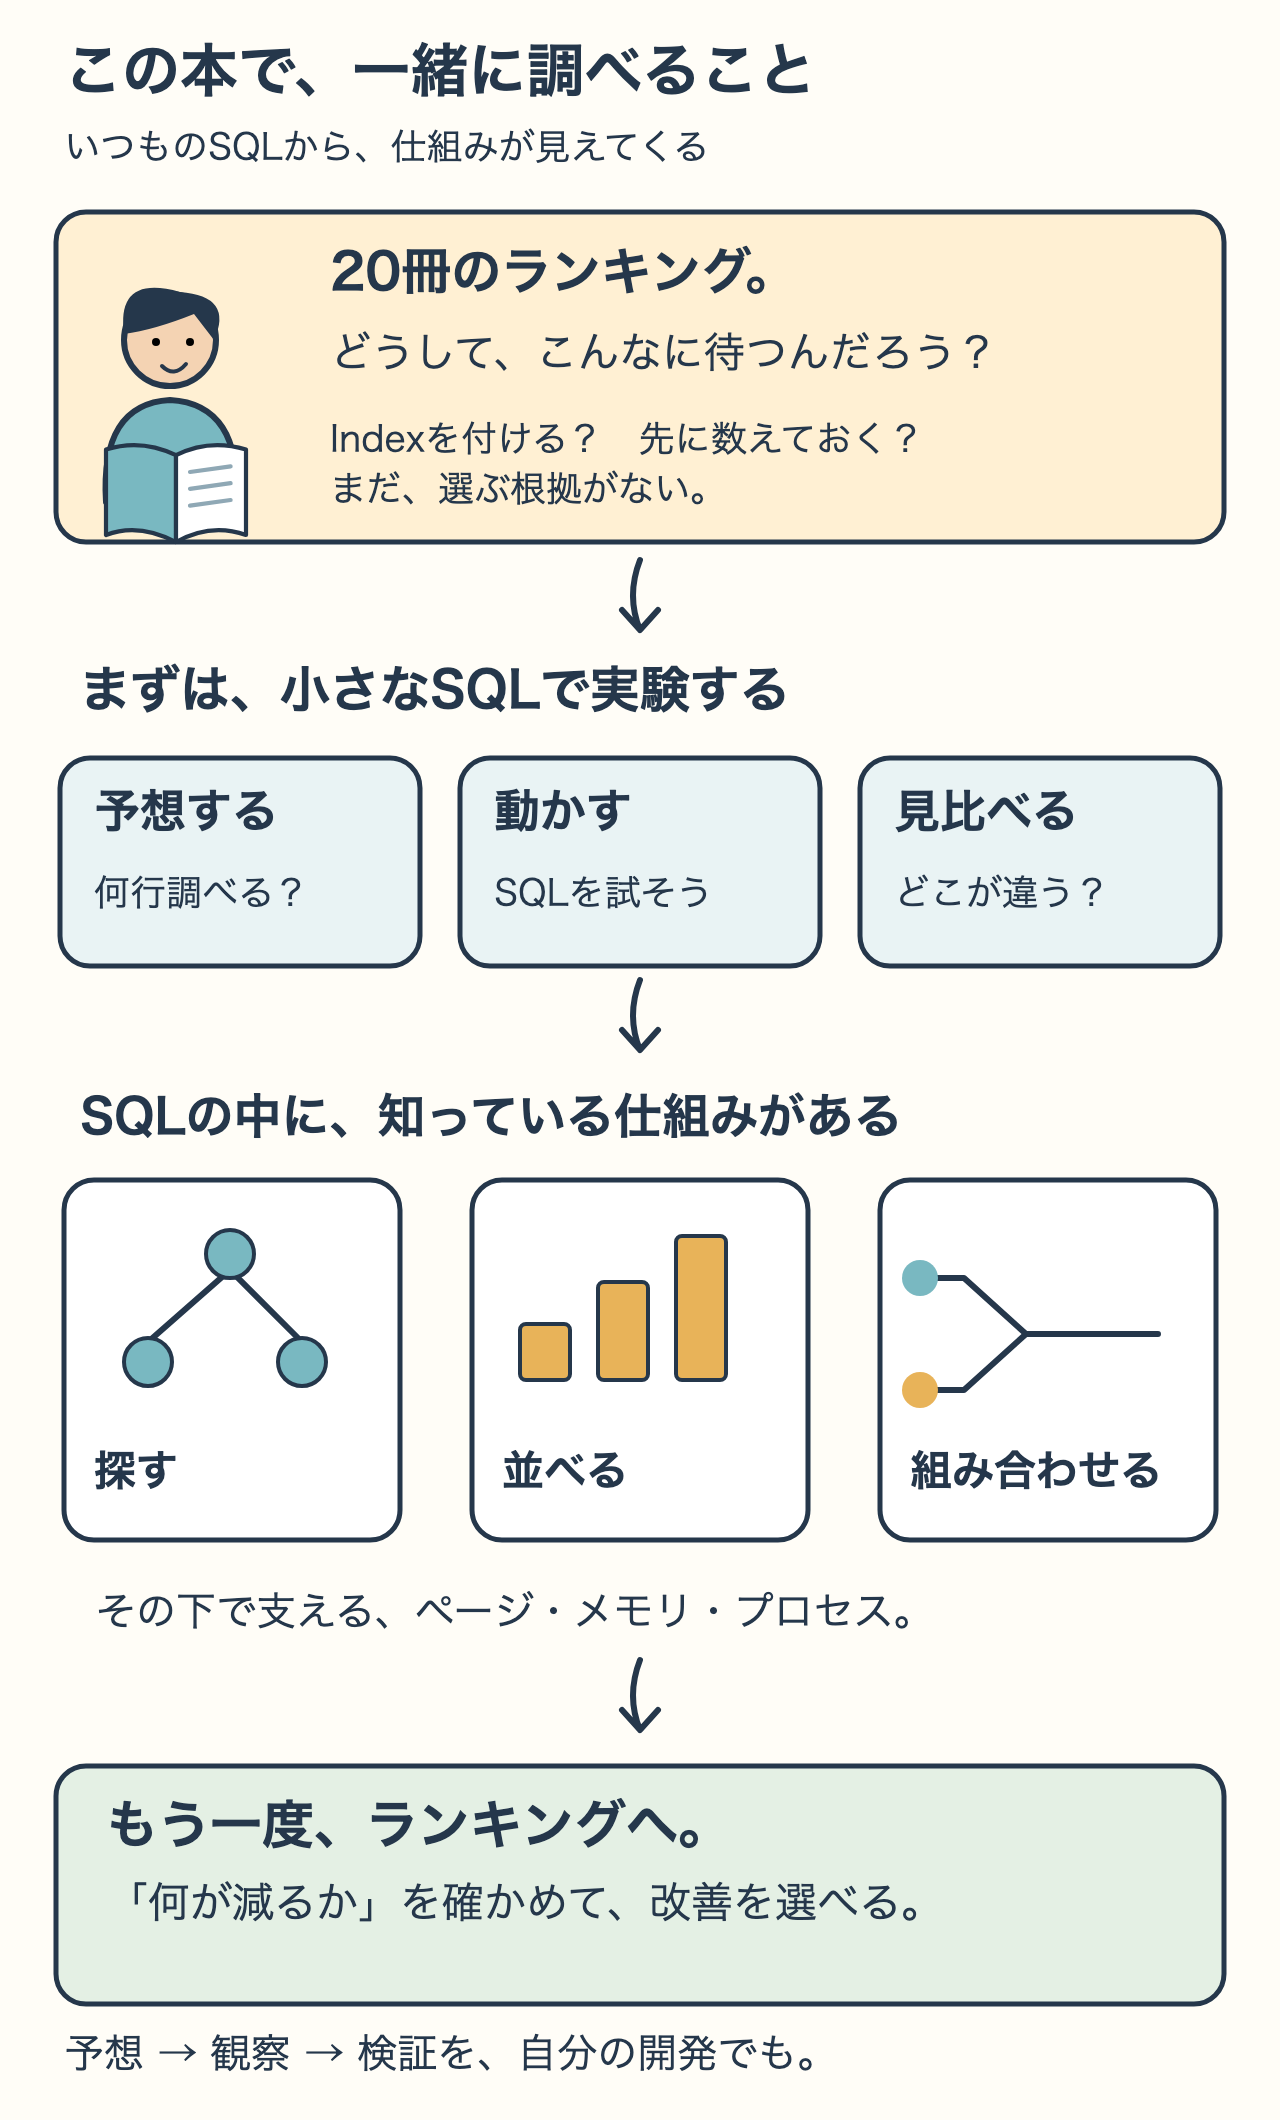
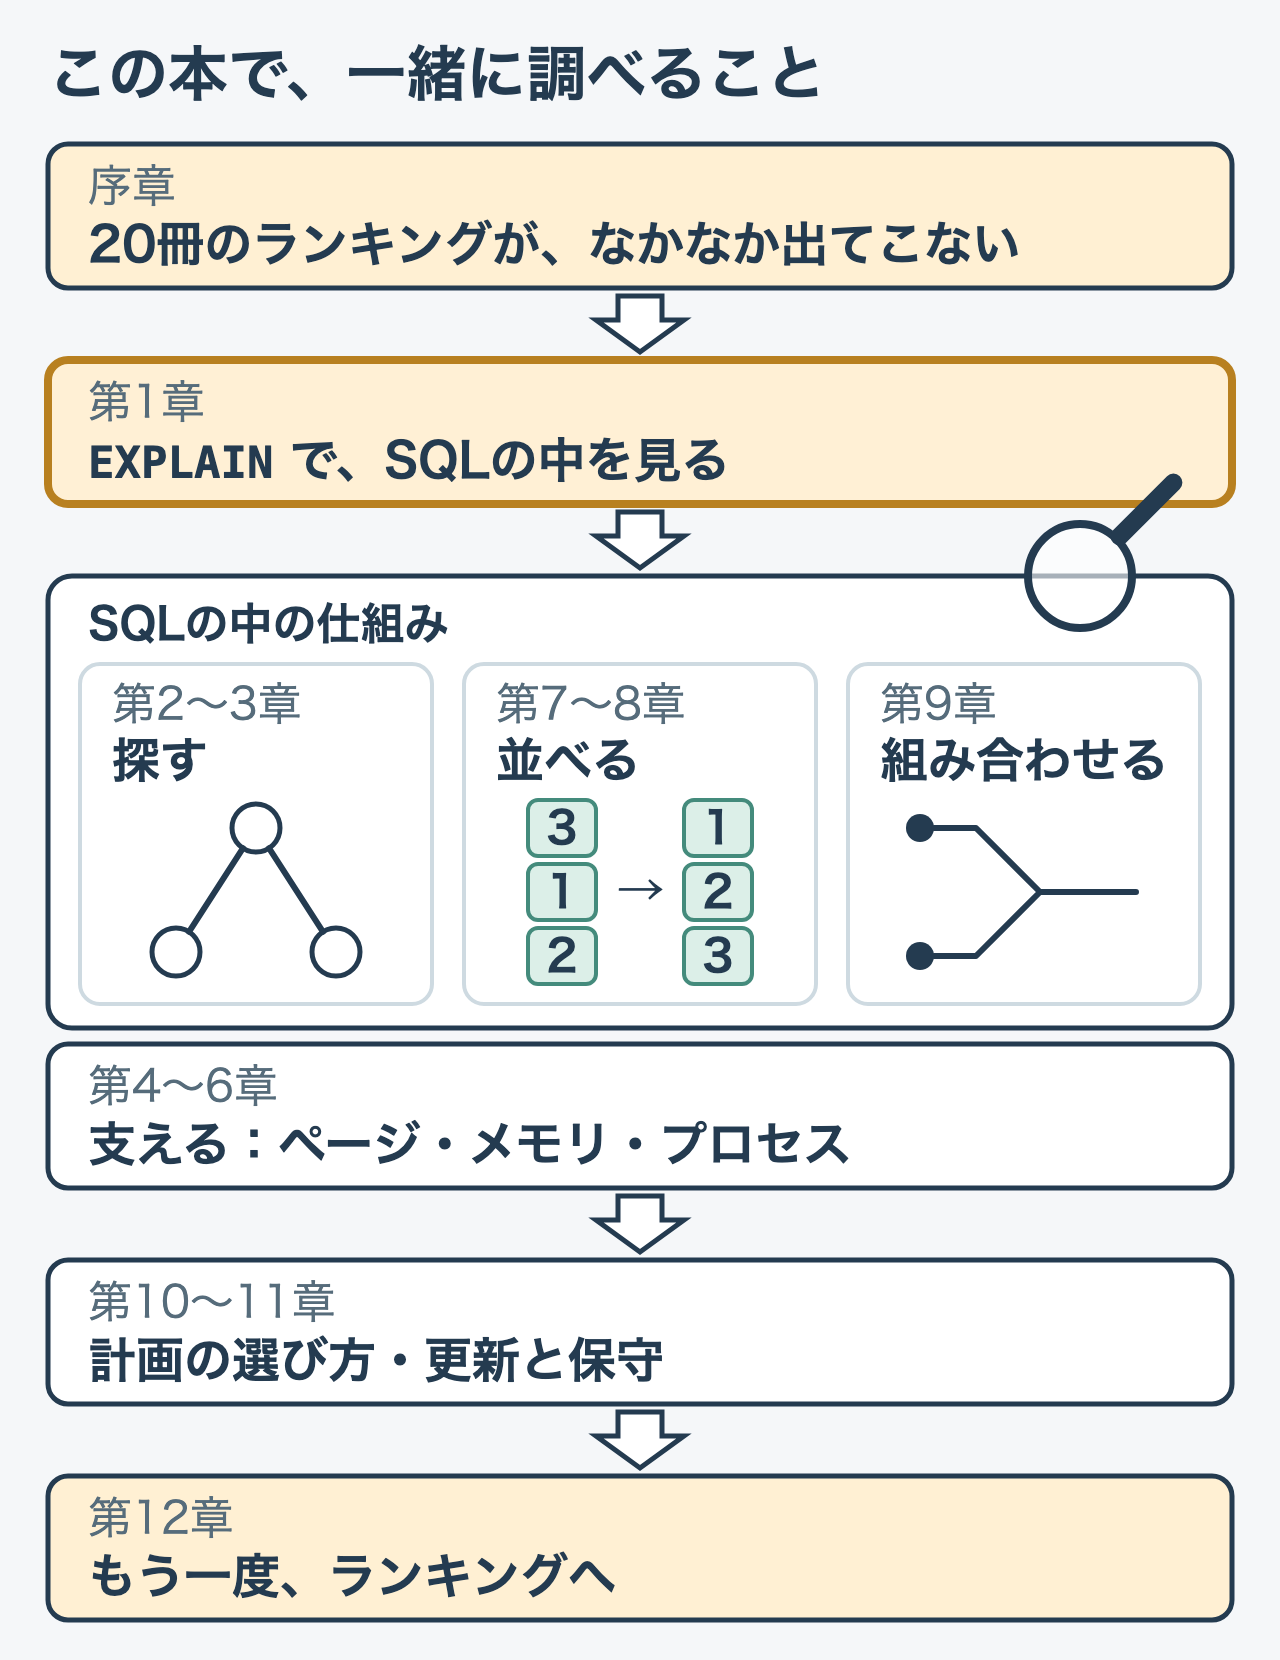
docs(query-journey): 序章の道のりの図に章番号とEXPLAINを入れ、縦の長さを収める
高さ1060で人物と本を transform で置き、章番号と EXPLAIN がなかった。箱ごとに章番号を書き、EXPLAIN の箱を焦点にして虫眼鏡を仕組みの枠に重ね、並べ替えを数字カードで描いた。人物と文は外した。

diff --git a/books/postgresql-query-journey/00-prologue.md b/books/postgresql-query-journey/00-prologue.md
@@ -4,8 +4,8 @@ title: "序章：20冊のランキングが、なかなか出てこない"
 
 この本は、ランキングが遅いという疑問から始まります。小さなSQLで仕組みを確かめ、最後に同じランキングの改善を考えます。まずは、その道のりを一枚の絵で見てください。
 
-![ランキングの疑問から、小さなSQLでの実験、探索、並べ替え、結合の理解を経て、改善の判断へ戻る](/images/postgresql-query-journey/00-book-sketch.png)
-*本全体の道のり。各章で、この中の仕組みを一つずつ確かめます。*
+![序章のランキングの疑問から、第1章のEXPLAINを道具に、探す・並べる・組み合わせる仕組みと、それを支えるページ・メモリ・プロセスを章ごとに学び、第12章でランキングへ戻る](/images/postgresql-query-journey/00-book-sketch.png)
+*箱ごとの章番号で、どの章で何を確かめるかを見てください。どの仕組みも、第1章のEXPLAINを使って調べます。*
 
 ## はじめに
 
